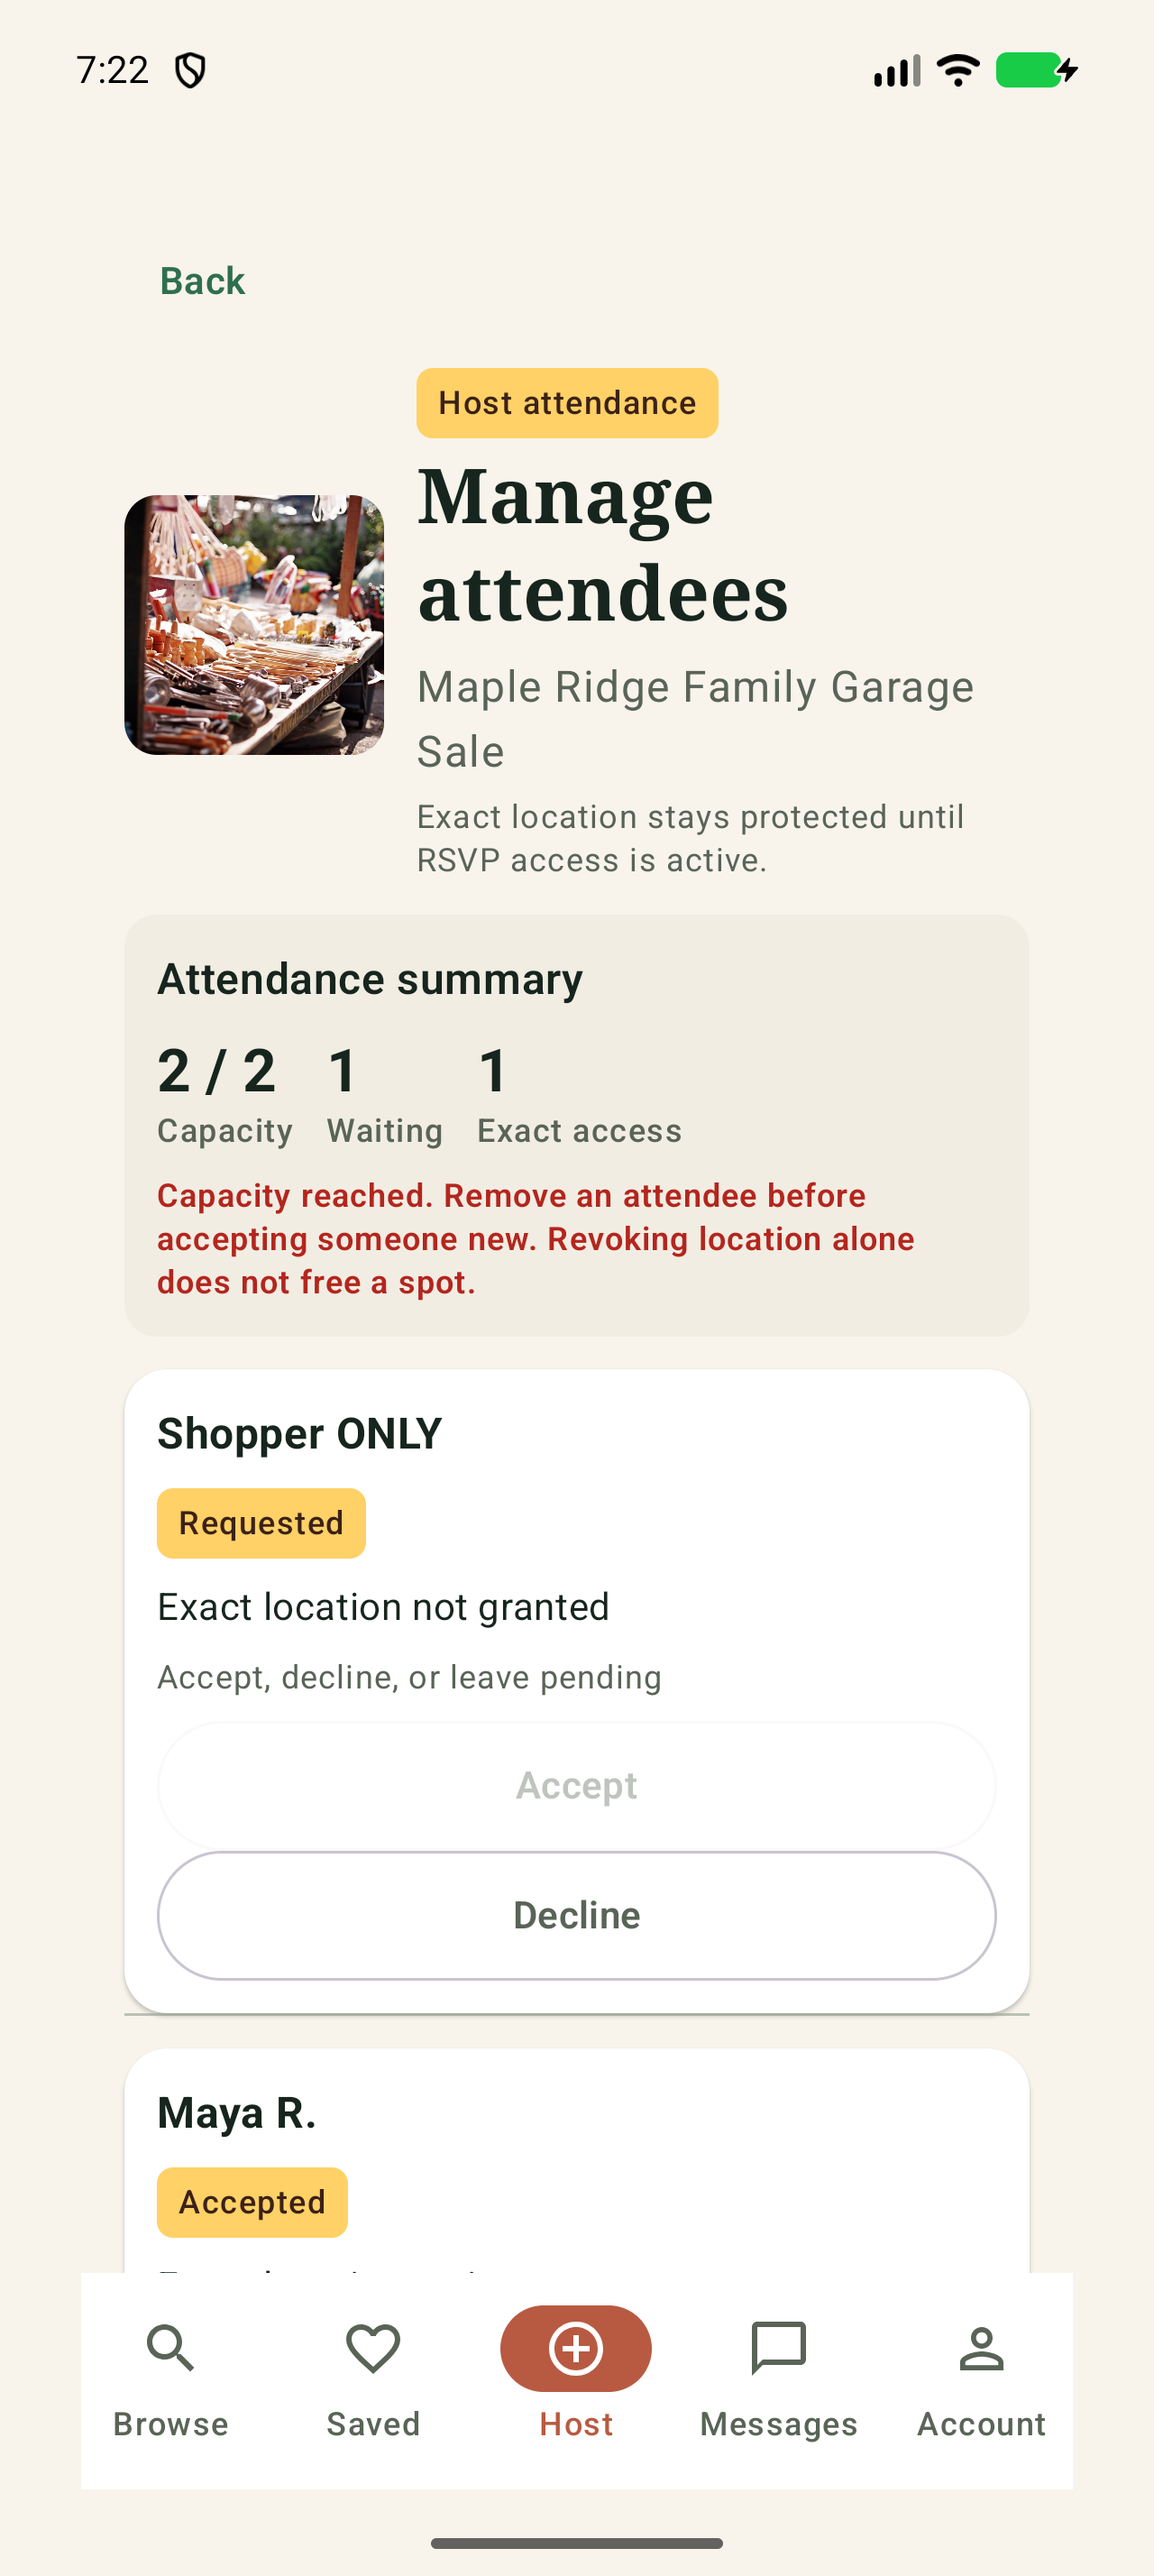
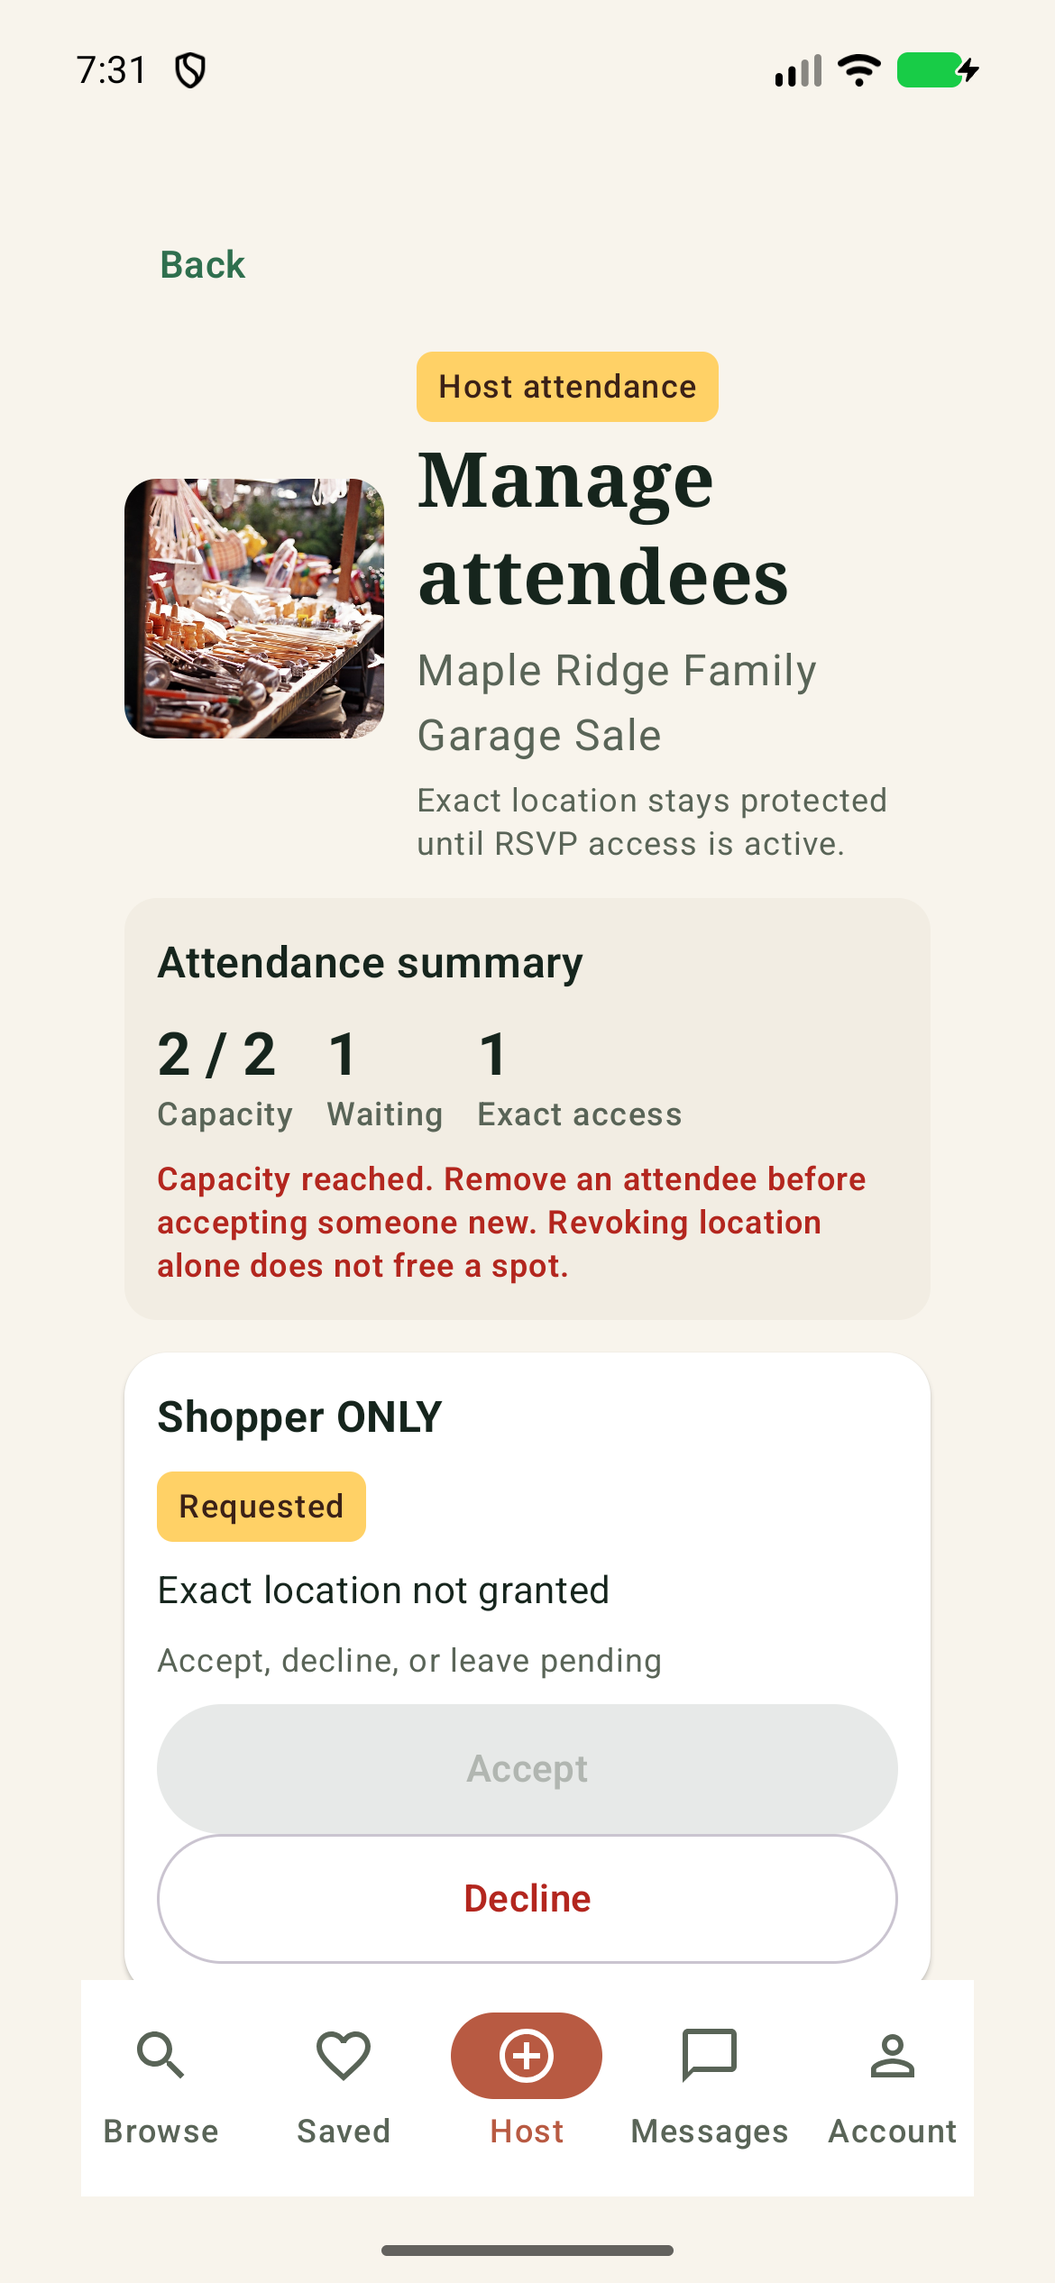
fix: clarify host safety actions

diff --git a/app/shared/src/commonMain/kotlin/com/naslabs/yardscape/ui/HostAttendanceScreen.kt b/app/shared/src/commonMain/kotlin/com/naslabs/yardscape/ui/HostAttendanceScreen.kt
@@ -17,6 +17,7 @@ import androidx.compose.foundation.lazy.LazyColumn
 import androidx.compose.foundation.lazy.items
 import androidx.compose.material3.AlertDialog
 import androidx.compose.material3.Button
+import androidx.compose.material3.ButtonDefaults
 import androidx.compose.material3.HorizontalDivider
 import androidx.compose.material3.MaterialTheme
 import androidx.compose.material3.OutlinedButton
@@ -96,8 +97,26 @@ fun HostAttendanceScreen(
             onDismissRequest = onDismissAction,
             title = { Text(pending.action.confirmationTitle) },
             text = { Text("${pending.attendeeName}: ${pending.action.consequence}") },
-            confirmButton = { Button(onClick = { onConfirmAction() }) { Text(pending.action.label) } },
-            dismissButton = { TextButton(onClick = onDismissAction) { Text("Go back") } },
+            confirmButton = {
+                Button(
+                    modifier = Modifier.yardScapeInteractiveTarget(),
+                    colors = if (pending.action.isDestructive) {
+                        ButtonDefaults.buttonColors(
+                            containerColor = MaterialTheme.colorScheme.error,
+                            contentColor = MaterialTheme.colorScheme.onError,
+                        )
+                    } else {
+                        ButtonDefaults.buttonColors()
+                    },
+                    onClick = { onConfirmAction() },
+                ) { Text(pending.action.label) }
+            },
+            dismissButton = {
+                TextButton(
+                    modifier = Modifier.yardScapeInteractiveTarget(),
+                    onClick = onDismissAction,
+                ) { Text("Go back") }
+            },
         )
     }
 }
@@ -201,11 +220,20 @@ private fun HostAttendeeRow(
             val actionModifier = if (inlineActions) Modifier.heightIn(min = 48.dp) else Modifier.fillMaxWidth().heightIn(min = 48.dp)
             FlowRow(horizontalArrangement = Arrangement.spacedBy(YardScapeDesign.spacing.small)) {
             attendee.availableActions.forEach { action ->
-                OutlinedButton(
-                    modifier = actionModifier,
-                    enabled = action != HostAttendeeAction.Accept || !atCapacity,
-                    onClick = { onRequestAction(eventId, attendee.shopperId, action) },
-                ) { Text(action.label) }
+                if (action == HostAttendeeAction.Accept) {
+                    Button(
+                        modifier = actionModifier,
+                        enabled = !atCapacity,
+                        onClick = { onRequestAction(eventId, attendee.shopperId, action) },
+                    ) { Text(action.label) }
+                } else {
+                    OutlinedButton(
+                        modifier = actionModifier,
+                        colors = ButtonDefaults.outlinedButtonColors(contentColor = MaterialTheme.colorScheme.error),
+                        enabled = true,
+                        onClick = { onRequestAction(eventId, attendee.shopperId, action) },
+                    ) { Text(action.label) }
+                }
             }
             if (attendee.canMessageAttendee) {
                 Button(

diff --git a/app/androidApp/src/androidTest/kotlin/com/naslabs/yardscape/MarketplaceAccessibilityTest.kt b/app/androidApp/src/androidTest/kotlin/com/naslabs/yardscape/MarketplaceAccessibilityTest.kt
@@ -27,6 +27,11 @@ import com.naslabs.yardscape.ui.YardScapePrimaryDestination
 import com.naslabs.yardscape.ui.YardScapeTestTags
 import com.naslabs.yardscape.ui.YardScapeTheme
 import com.naslabs.yardscape.ui.ShopperSafetyScreen
+import com.naslabs.yardscape.ui.HostAttendanceScreen
+import com.naslabs.yardscape.ui.HostAttendancePolicy
+import com.naslabs.yardscape.ui.HostAttendeeAction
+import com.naslabs.yardscape.ui.HostAttendanceState
+import com.naslabs.yardscape.ui.PendingHostAttendeeAction
 import org.junit.Rule
 import org.junit.Test
 
@@ -154,6 +159,37 @@ class MarketplaceAccessibilityTest {
             .assertIsDisplayed()
         composeRule.onNodeWithTag(YardScapeTestTags.EditorialBackNavigation)
             .assertHeightIsAtLeast(48.dp)
+    }
+
+    @Test
+    fun attendanceConfirmationKeepsBothChoicesAtTheSharedMinimumTarget() {
+        composeRule.setContent {
+            YardScapeTheme {
+                HostAttendanceScreen(
+                    state = HostAttendanceState(
+                        eventId = "event",
+                        eventTitle = "Test sale",
+                        eventPhoto = null,
+                        policy = HostAttendancePolicy(),
+                        attendees = emptyList(),
+                    ),
+                    pendingAction = PendingHostAttendeeAction(
+                        eventId = "event",
+                        shopperId = "shopper",
+                        attendeeName = "Test shopper",
+                        action = HostAttendeeAction.Revoke,
+                    ),
+                    onBack = {},
+                    onRequestAction = { _, _, _ -> true },
+                    onMessageAttendee = { _, _ -> true },
+                    onDismissAction = {},
+                    onConfirmAction = { true },
+                )
+            }
+        }
+
+        composeRule.onNodeWithText("Revoke location").assertHeightIsAtLeast(48.dp)
+        composeRule.onNodeWithText("Go back").assertHeightIsAtLeast(48.dp)
     }
 
     private fun hasCustomAction(label: String): SemanticsMatcher =

diff --git a/app/shared/src/commonMain/kotlin/com/naslabs/yardscape/ui/HostCreateEditScreen.kt b/app/shared/src/commonMain/kotlin/com/naslabs/yardscape/ui/HostCreateEditScreen.kt
@@ -133,6 +133,14 @@ fun HostCreateEditScreen(
             confirmButton = {
                 Button(
                     modifier = Modifier.yardScapeInteractiveTarget(),
+                    colors = if (action.isDestructive) {
+                        ButtonDefaults.buttonColors(
+                            containerColor = MaterialTheme.colorScheme.error,
+                            contentColor = MaterialTheme.colorScheme.onError,
+                        )
+                    } else {
+                        ButtonDefaults.buttonColors()
+                    },
                     onClick = {
                         when (action) {
                             HostConfirmationAction.Publish -> onPublish()
@@ -494,7 +502,14 @@ private fun HostPreviewStep(
         ) { Text("Review and publish") }
         if (state.savedEventId != null) {
             OutlinedButton(modifier = Modifier.fillMaxWidth().yardScapeInteractiveTarget(), onClick = { onRequestConfirmation(HostConfirmationAction.Hide) }) { Text("Hide from search") }
-            OutlinedButton(modifier = Modifier.fillMaxWidth().yardScapeInteractiveTarget(), onClick = { onRequestConfirmation(HostConfirmationAction.Cancel) }) { Text("Cancel event") }
+            Button(
+                modifier = Modifier.fillMaxWidth().yardScapeInteractiveTarget(),
+                onClick = { onRequestConfirmation(HostConfirmationAction.Cancel) },
+                colors = ButtonDefaults.buttonColors(
+                    containerColor = MaterialTheme.colorScheme.error,
+                    contentColor = MaterialTheme.colorScheme.onError,
+                ),
+            ) { Text("Cancel event") }
         }
     }
     if (isExpanded) {

diff --git a/app/shared/src/commonTest/kotlin/com/naslabs/yardscape/ui/HostAttendanceStateTest.kt b/app/shared/src/commonTest/kotlin/com/naslabs/yardscape/ui/HostAttendanceStateTest.kt
@@ -12,6 +12,17 @@ import kotlin.test.assertNull
 import kotlin.test.assertTrue
 
 class HostAttendanceStateTest {
+    @Test
+    fun accessChangingAndDestructiveHostActionsExposeTheirVisualRiskLevel() {
+        assertFalse(HostAttendeeAction.Accept.isDestructive)
+        assertTrue(HostAttendeeAction.Decline.isDestructive)
+        assertTrue(HostAttendeeAction.Remove.isDestructive)
+        assertTrue(HostAttendeeAction.Revoke.isDestructive)
+        assertFalse(HostConfirmationAction.Publish.isDestructive)
+        assertTrue(HostConfirmationAction.Hide.isDestructive)
+        assertTrue(HostConfirmationAction.Cancel.isDestructive)
+    }
+
     private val eventId = SeededYardSaleData.FAMILY_GARAGE_EVENT_ID
 
     @Test

diff --git a/app/shared/src/commonMain/kotlin/com/naslabs/yardscape/ui/HostAttendanceState.kt b/app/shared/src/commonMain/kotlin/com/naslabs/yardscape/ui/HostAttendanceState.kt
@@ -28,6 +28,9 @@ enum class HostAttendeeAction(
     Revoke("Revoke location", "Revoke exact-location access?", "The attendee remains accepted, but the exact location disappears immediately."),
 }
 
+internal val HostAttendeeAction.isDestructive: Boolean
+    get() = this != HostAttendeeAction.Accept
+
 data class PendingHostAttendeeAction(
     val eventId: String,
     val shopperId: String,

diff --git a/app/shared/src/commonMain/kotlin/com/naslabs/yardscape/ui/HostEditorState.kt b/app/shared/src/commonMain/kotlin/com/naslabs/yardscape/ui/HostEditorState.kt
@@ -38,6 +38,9 @@ enum class HostConfirmationAction(val title: String, val message: String, val co
     ),
 }
 
+internal val HostConfirmationAction.isDestructive: Boolean
+    get() = this == HostConfirmationAction.Hide || this == HostConfirmationAction.Cancel
+
 data class HostPublicPreview(
     val title: String,
     val description: String,

diff --git a/design-qa.md b/design-qa.md
@@ -40,14 +40,12 @@ final result: passed
 ## Host editorial refresh
 
 - Source visual language: `docs/audit-assets/88-approved-browse-reference.png`
-- Compact captures: `docs/audit-assets/92-android-host-dashboard.png`, `docs/audit-assets/92-android-host-editor.png`, and `docs/audit-assets/92-android-host-attendees.png`
-- Viewport: Android compact runtime at 1280 × 2856 px (480 dpi; approximately 427 × 952 dp), light theme.
+- Compact captures: `docs/audit-assets/92-android-host-dashboard.png`, `docs/audit-assets/92-android-host-editor.png`, `docs/audit-assets/92-android-host-preview.png`, `docs/audit-assets/92-android-host-preview-actions.png`, and `docs/audit-assets/92-android-host-attendees.png`
+- Viewport: Android compact runtime at 1170 × 2532 px / 480 dpi, exactly 390 × 844 dp, light theme.
 
 The Host workspace translates—not copies—the approved Browse marketplace language. The dashboard now leads with a clear editorial section, warm photo-first sale cards, evergreen actions, clay selected navigation, and deliberately separated host controls. The editor has a single screen-owned Back affordance, readable seven-step progress, a white form group, and a compact action surface. Attendance maintains the same soft grouped surface, clear status labels, capacity warning, and strongly separated attendee controls.
 
-Visual QA found no P0–P2 issues in hierarchy, clipping, action affordance, or the compact navigation overlap. The public dashboard and preview path continue to use approximate place labels only; the editor keeps protected address/instruction fields inside its private-location step, and attendance never exposes an address. Existing shared host presentation tests cover public-preview redaction and artwork fallback. The new runtime accessibility assertion covers the dashboard Create action and nested editor Back target; emulator instrumentation is separately blocked by Android 17's test-runtime `InputManager.getInstance` incompatibility before tests can execute.
-
-Follow-up P3: a fully completed preview-state capture should be refreshed using a deterministic host-editor fixture when the Android instrumentation environment is upgraded; the production preview UI and its redaction logic are covered by the existing common tests.
+Visual QA found no P0–P2 issues in hierarchy, clipping, action affordance, or compact-navigation overlap. The preview capture now visibly verifies the photo-first public card; its companion action capture verifies neutral Hide and destructive Cancel treatments. The public dashboard and preview path continue to use approximate place labels only; the editor keeps protected address/instruction fields inside its private-location step, and attendance never exposes an address. Existing shared host presentation tests cover public-preview redaction and artwork fallback. The new runtime accessibility assertion covers the dashboard Create action, nested editor Back target, and both attendee-dialog choices. Emulator instrumentation is separately blocked by Android 17's test-runtime `InputManager.getInstance` incompatibility before tests can execute.
 
 final result: passed
 

diff --git a/.superpowers/sdd/2026-08-31-host-visual-refresh/task-1-report.md b/.superpowers/sdd/2026-08-31-host-visual-refresh/task-1-report.md
@@ -5,12 +5,14 @@
 - Restyled the Host dashboard into a warm photo-led workspace with clear status, public-area context, RSVP progress, and compact/expanded action treatment.
 - Restyled the seven-step Create/Edit flow with an editorial nested header, a single back control, visible progress, grouped form surfaces, and a focused action panel.
 - Restyled shopper Preview into an explicitly labeled photo-first public card. It keeps the existing approximate-only metadata and excludes protected address/instruction content.
-- Restyled attendance into a clear editorial header, capacity summary, state-labeled attendee cards, and accessible action grouping.
+- Restyled attendance into a clear editorial header, capacity summary, state-labeled attendee cards, and accessible action grouping. Accept remains primary; decline, remove, and revoke use an error hierarchy.
+- Made Hide a neutral secondary preview action, Cancel visibly destructive, and used error-colored confirmation actions for all irreversible/revoking host mutations.
 - Added a testable compact/expanded Host presentation policy, focused common coverage, Android semantic/48 dp coverage, design-system guidance, and compact runtime captures.
 
 ## Validation
 
-- PASS: `ANDROID_HOME=/Users/anas/Library/Android/sdk ./gradlew :app:shared:testAndroidHostTest --tests com.naslabs.yardscape.ui.HostMarketplacePresentationTest`
+- PASS: `ANDROID_HOME=/Users/anas/Library/Android/sdk ./gradlew :app:shared:testAndroidHostTest --tests com.naslabs.yardscape.ui.HostAttendanceStateTest`
+- PASS: `ANDROID_HOME=/Users/anas/Library/Android/sdk ./gradlew :app:androidApp:compileDebugAndroidTestKotlin`
 - PASS earlier in this task: `:app:shared:testAndroidHostTest` and `:app:androidApp:assembleDebug`.
 - PASS earlier in this task: JS/Wasm compatibility and iOS simulator test command completed after compilation; pre-existing dependency/deprecation warnings remained unchanged.
 - BLOCKED: Android connected instrumentation starts but every existing test fails before assertions on the Android 17 emulator because its test runtime reflects the removed `android.hardware.input.InputManager.getInstance()` method. The new test compiled with the suite; this is environment-wide and not introduced by this change.
@@ -20,6 +22,8 @@
 
 - `docs/audit-assets/92-android-host-dashboard.png`
 - `docs/audit-assets/92-android-host-editor.png`
+- `docs/audit-assets/92-android-host-preview.png`
+- `docs/audit-assets/92-android-host-preview-actions.png`
 - `docs/audit-assets/92-android-host-attendees.png`
 
-The completed-preview state remains covered by the shared preview/redaction tests. A deterministic editor fixture should be used to refresh its specific runtime screenshot once the emulator instrumentation environment is upgraded.
+All Host captures are exactly 390 × 844 dp (1170 × 2532 px at 480 dpi). The preview runtime evidence now covers both the photo-first public card and its Hide/Cancel controls.
